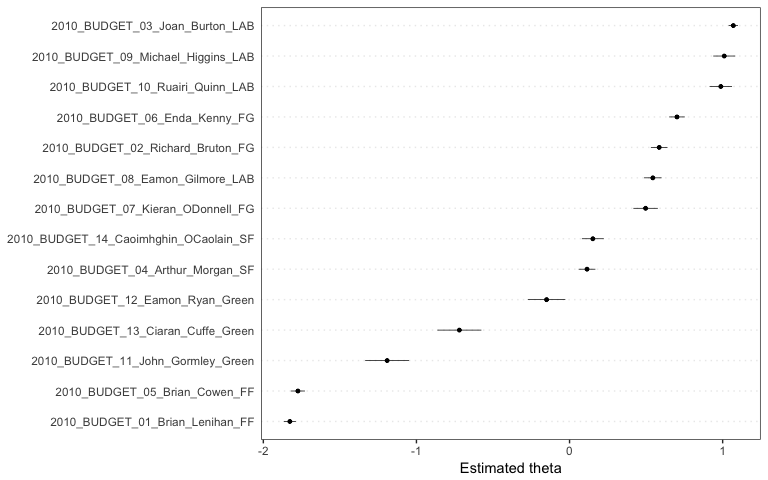
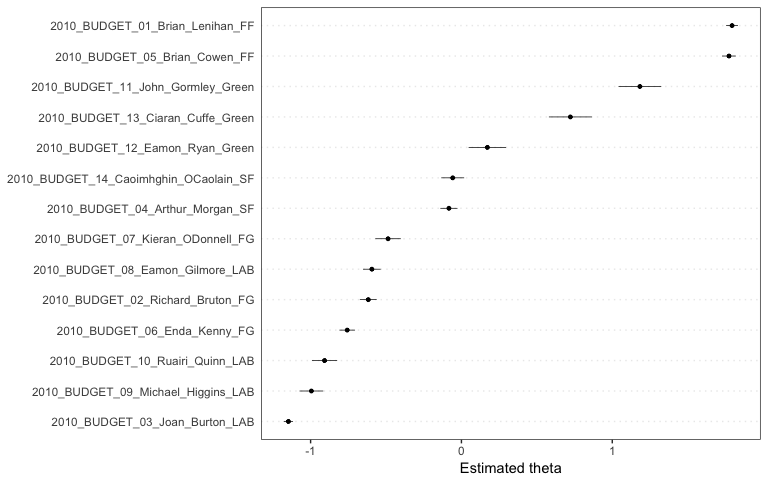
Update examples

diff --git a/6_advanced/advanced.md b/6_advanced/advanced.md
@@ -82,9 +82,12 @@ require(dplyr)
 ##     intersect, setdiff, setequal, union
 tweetSample <- mutate(tweetSample, day = yday(created_at))
 tweetSample <- mutate(tweetSample, dayDate = as.Date(day-1, origin = "2014-01-01"))
-juncker <- filter(tweetSample, grepl('juncker', text, ignore.case = TRUE)) %>% mutate(kand = 'Juncker')
-schulz <-  filter(tweetSample, grepl('schulz', text, ignore.case = TRUE))  %>% mutate(kand = 'Schulz')
-verhof <-  filter(tweetSample, grepl('verhofstadt', text, ignore.case = TRUE)) %>% mutate(kand = 'Verhofstadt')
+juncker <- filter(tweetSample, grepl('juncker', text, ignore.case = TRUE)) %>% 
+    mutate(kand = 'Juncker')
+schulz <-  filter(tweetSample, grepl('schulz', text, ignore.case = TRUE)) %>% 
+    mutate(kand = 'Schulz')
+verhof <-  filter(tweetSample, grepl('verhofstadt', text, ignore.case = TRUE)) %>% 
+    mutate(kand = 'Verhofstadt')
 spitzAll <- bind_rows(juncker, schulz, verhof)
 ```
 
@@ -96,7 +99,8 @@ require(ggplot2)
 require(scales)
 ## Loading required package: scales
 # mentioning kandidates names over time
-plotDf <- count(spitzAll, kand, day=day)  %>% mutate(day = as.Date(day-1, origin = "2014-01-01"))
+plotDf <- count(spitzAll, kand, day=day) %>% 
+    mutate(day = as.Date(day-1, origin = "2014-01-01"))
 
 ggplot(data=plotDf, aes(x=day, y=n, colour=kand)) + 
     geom_line(size=1) +
@@ -370,9 +374,9 @@ plot(coef(preds)$coef_document ~ docvars(amicusDfm, "testclass"),
 Correspondence analysis:
 
 ``` r
-ieDfm <- dfm(data_corpus_irishbudget2010)
-ieCA <- textmodel(ieDfm, model = "ca")
-textplot_scale1d(ieCA)
+dfm(data_corpus_irishbudget2010) %>%
+    textmodel_ca() %>% 
+    textplot_scale1d()
 ## Warning: Removed 14 rows containing missing values (geom_pointrange).
 ```
 
@@ -381,42 +385,48 @@ textplot_scale1d(ieCA)
 Poisson scaling:
 
 ``` r
-ieWF <- textmodel(ieDfm, model = "wordfish")
+ieWF <- dfm(data_corpus_irishbudget2010, removePunct = TRUE) %>%
+    textmodel_wordfish(dir = c(6,5))
+## Warning: argument "removePunct" is deprecated: use "remove_punct" instead.
+## Warning in dfm.tokenizedTexts(temp, tolower = tolower, stem = stem, select
+## = select, : Argument removePunct not used.
+## Warning in dfm.dfm(result, tolower = FALSE, stem = stem, select = select, :
+## Argument removePunct not used.
 summary(ieWF)
 ## Call:
-##  textmodel_wordfish(x = x)
+##  textmodel_wordfish(x = ., dir = c(6, 5))
 ## 
 ## Estimated document positions:
-##                                            theta         SE       lower
-## 2010_BUDGET_01_Brian_Lenihan_FF       -1.8268036 0.02020113 -1.86639781
-## 2010_BUDGET_02_Richard_Bruton_FG       0.5855453 0.02767752  0.53129738
-## 2010_BUDGET_03_Joan_Burton_LAB         1.0696093 0.01556654  1.03909892
-## 2010_BUDGET_04_Arthur_Morgan_SF        0.1141058 0.02791284  0.05939668
-## 2010_BUDGET_05_Brian_Cowen_FF         -1.7742535 0.02354795 -1.82040749
-## 2010_BUDGET_06_Enda_Kenny_FG           0.7016675 0.02613599  0.65044099
-## 2010_BUDGET_07_Kieran_ODonnell_FG      0.4967371 0.04081043  0.41674864
-## 2010_BUDGET_08_Eamon_Gilmore_LAB       0.5438955 0.02931964  0.48642903
-## 2010_BUDGET_09_Michael_Higgins_LAB     1.0104557 0.03669246  0.93853843
-## 2010_BUDGET_10_Ruairi_Quinn_LAB        0.9879423 0.03741468  0.91460950
-## 2010_BUDGET_11_John_Gormley_Green     -1.1913710 0.07324285 -1.33492703
-## 2010_BUDGET_12_Eamon_Ryan_Green       -0.1500193 0.06254512 -0.27260773
-## 2010_BUDGET_13_Ciaran_Cuffe_Green     -0.7196468 0.07340590 -0.86352238
-## 2010_BUDGET_14_Caoimhghin_OCaolain_SF  0.1521357 0.03644625  0.08070101
+##                                             theta         SE      lower
+## 2010_BUDGET_01_Brian_Lenihan_FF        1.79413555 0.02008369  1.7547715
+## 2010_BUDGET_02_Richard_Bruton_FG      -0.61757407 0.02844971 -0.6733355
+## 2010_BUDGET_03_Joan_Burton_LAB        -1.14716506 0.01562604 -1.1777921
+## 2010_BUDGET_04_Arthur_Morgan_SF       -0.08300762 0.02901006 -0.1398673
+## 2010_BUDGET_05_Brian_Cowen_FF          1.77383169 0.02331842  1.7281276
+## 2010_BUDGET_06_Enda_Kenny_FG          -0.75721756 0.02643476 -0.8090297
+## 2010_BUDGET_07_Kieran_ODonnell_FG     -0.48642676 0.04310127 -0.5709053
+## 2010_BUDGET_08_Eamon_Gilmore_LAB      -0.59380374 0.02992727 -0.6524612
+## 2010_BUDGET_09_Michael_Higgins_LAB    -0.99475989 0.04016928 -1.0734917
+## 2010_BUDGET_10_Ruairi_Quinn_LAB       -0.90753100 0.04265150 -0.9911279
+## 2010_BUDGET_11_John_Gormley_Green      1.18319536 0.07231201  1.0414638
+## 2010_BUDGET_12_Eamon_Ryan_Green        0.17186838 0.06334423  0.0477137
+## 2010_BUDGET_13_Ciaran_Cuffe_Green      0.72231131 0.07267234  0.5798735
+## 2010_BUDGET_14_Caoimhghin_OCaolain_SF -0.05785659 0.03875089 -0.1338083
 ##                                             upper
-## 2010_BUDGET_01_Brian_Lenihan_FF       -1.78720939
-## 2010_BUDGET_02_Richard_Bruton_FG       0.63979326
-## 2010_BUDGET_03_Joan_Burton_LAB         1.10011977
-## 2010_BUDGET_04_Arthur_Morgan_SF        0.16881502
-## 2010_BUDGET_05_Brian_Cowen_FF         -1.72809951
-## 2010_BUDGET_06_Enda_Kenny_FG           0.75289405
-## 2010_BUDGET_07_Kieran_ODonnell_FG      0.57672554
-## 2010_BUDGET_08_Eamon_Gilmore_LAB       0.60136202
-## 2010_BUDGET_09_Michael_Higgins_LAB     1.08237288
-## 2010_BUDGET_10_Ruairi_Quinn_LAB        1.06127505
-## 2010_BUDGET_11_John_Gormley_Green     -1.04781505
-## 2010_BUDGET_12_Eamon_Ryan_Green       -0.02743087
-## 2010_BUDGET_13_Ciaran_Cuffe_Green     -0.57577127
-## 2010_BUDGET_14_Caoimhghin_OCaolain_SF  0.22357033
+## 2010_BUDGET_01_Brian_Lenihan_FF        1.83349959
+## 2010_BUDGET_02_Richard_Bruton_FG      -0.56181264
+## 2010_BUDGET_03_Joan_Burton_LAB        -1.11653803
+## 2010_BUDGET_04_Arthur_Morgan_SF       -0.02614791
+## 2010_BUDGET_05_Brian_Cowen_FF          1.81953580
+## 2010_BUDGET_06_Enda_Kenny_FG          -0.70540543
+## 2010_BUDGET_07_Kieran_ODonnell_FG     -0.40194827
+## 2010_BUDGET_08_Eamon_Gilmore_LAB      -0.53514630
+## 2010_BUDGET_09_Michael_Higgins_LAB    -0.91602809
+## 2010_BUDGET_10_Ruairi_Quinn_LAB       -0.82393406
+## 2010_BUDGET_11_John_Gormley_Green      1.32492689
+## 2010_BUDGET_12_Eamon_Ryan_Green        0.29602307
+## 2010_BUDGET_13_Ciaran_Cuffe_Green      0.86474911
+## 2010_BUDGET_14_Caoimhghin_OCaolain_SF  0.01809516
 textplot_scale1d(ieWF)
 ```
 
@@ -428,58 +438,53 @@ Topic models:
 require(topicmodels)
 ## Loading required package: topicmodels
 mycorpus <- corpus_subset(data_corpus_inaugural, Year > 1950)
-quantdfm <- dfm(mycorpus, verbose = FALSE, remove.punct = TRUE,
+quantdfm <- dfm(mycorpus, verbose = FALSE, remove_punct = TRUE,
                 remove = c(stopwords('english'), 'will', 'us', 'nation', 'can', 'peopl*', 'americ*'))
-## Warning in tokens.character(texts(x), ...): Argument remove.punct not used.
-## Warning in dfm.tokenizedTexts(temp, tolower = tolower, stem = stem, select
-## = select, : Argument remove.punct not used.
-## Warning in dfm.dfm(result, tolower = FALSE, stem = stem, select = select, :
-## Argument remove.punct not used.
-ldadfm <- convert(quantdfm, to="topicmodels")
+ldadfm <- convert(quantdfm, to = "topicmodels")
 lda <- LDA(ldadfm, control = list(alpha = 0.1), k = 20)
 terms(lda, 10)
-##       Topic 1      Topic 2   Topic 3    Topic 4 Topic 5      Topic 6 
-##  [1,] ","          ","       "."        "."     ","          ","     
-##  [2,] "."          "."       ","        ","     "."          "."     
-##  [3,] "new"        "man"     "-"        ";"     "-"          "-"     
-##  [4,] "-"          "change"  "must"     "must"  "\""         "new"   
-##  [5,] "century"    "world"   "time"     "-"     "government" ";"     
-##  [6,] ";"          "must"    ";"        "need"  "must"       "common"
-##  [7,] "time"       "\""      "every"    "great" "believe"    "world" 
-##  [8,] "land"       "-"       "together" "time"  "world"      "every" 
-##  [9,] "every"      "liberty" "make"     "hope"  "one"        "less"  
-## [10,] "government" "union"   "journey"  "new"   "time"       "seek"  
-##       Topic 7   Topic 8 Topic 9   Topic 10   Topic 11   Topic 12
-##  [1,] ","       ","     ","       ","        ","        ","     
-##  [2,] "."       "."     "."       "."        "."        "."     
-##  [3,] "-"       "-"     "freedom" "-"        "country"  ":"     
-##  [4,] "may"     ";"     "liberty" "new"      "-"        "-"     
-##  [5,] "world"   "world" "every"   "must"     ":"        ";"     
-##  [6,] "nations" "peace" "one"     ";"        "citizens" "new"   
-##  [7,] "peace"   "let"   ":"       "strength" ";"        "world" 
-##  [8,] "freedom" "know"  "country" "together" "every"    "great" 
-##  [9,] "seek"    "\""    "world"   "spirit"   "new"      "free"  
-## [10,] "must"    "make"  "\""      "world"    "never"    "must"  
-##       Topic 13     Topic 14 Topic 15 Topic 16  Topic 17         Topic 18
-##  [1,] ","          "."      ","      ","       ","              ","     
-##  [2,] "."          "-"      "."      "."       "."              "."     
-##  [3,] "-"          ","      "world"  "-"       "-"              "-"     
-##  [4,] "government" "\""     "must"   "free"    "let"            ";"     
-##  [5,] "world"      "old"    "today"  "world"   "peace"          "must"  
-##  [6,] "one"        "land"   "new"    "faith"   "world"          "let"   
-##  [7,] ";"          "union"  "change" "peace"   "new"            "end"   
-##  [8,] "freedom"    "one"    "let"    "shall"   "responsibility" "every" 
-##  [9,] "must"       "great"  "time"   "upon"    "government"     "know"  
-## [10,] "time"       "new"    ";"      "freedom" "great"          "less"  
-##       Topic 19  Topic 20
-##  [1,] ","       ","     
-##  [2,] "."       "."     
-##  [3,] "-"       "-"     
-##  [4,] ";"       "let"   
-##  [5,] "liberty" "sides" 
-##  [6,] "freedom" "world" 
-##  [7,] "must"    "pledge"
-##  [8,] "hope"    "new"   
-##  [9,] "know"    "ask"   
-## [10,] "future"  "shall"
+##       Topic 1      Topic 2      Topic 3   Topic 4    Topic 5   
+##  [1,] "world"      "new"        "may"     "free"     "new"     
+##  [2,] "one"        "must"       "world"   "world"    "one"     
+##  [3,] "government" "strength"   "nations" "faith"    "come"    
+##  [4,] "freedom"    "together"   "peace"   "peace"    "old"     
+##  [5,] "must"       "spirit"     "freedom" "shall"    "every"   
+##  [6,] "time"       "world"      "seek"    "upon"     "let"     
+##  [7,] "now"        "human"      "must"    "freedom"  "promise" 
+##  [8,] "history"    "dream"      "upon"    "must"     "human"   
+##  [9,] "new"        "government" "help"    "strength" "children"
+## [10,] "human"      "freedom"    "justice" "country"  "world"   
+##       Topic 6     Topic 7          Topic 8      Topic 9      Topic 10    
+##  [1,] "world"     "let"            "story"      "new"        "new"       
+##  [2,] "friends"   "peace"          "must"       "century"    "let"       
+##  [3,] "time"      "world"          "never"      "land"       "today"     
+##  [4,] "today"     "new"            "country"    "government" "many"      
+##  [5,] "free"      "responsibility" "many"       "time"       "whether"   
+##  [6,] "need"      "government"     "government" "must"       "earth"     
+##  [7,] "make"      "great"          "beyond"     "every"      "last"      
+##  [8,] "new"       "home"           "new"        "world"      "bless"     
+##  [9,] "hope"      "abroad"         "children"   "promise"    "government"
+## [10,] "president" "make"           "place"      "fellow"     "gift"      
+##       Topic 11     Topic 12   Topic 13   Topic 14  Topic 15   Topic 16   
+##  [1,] "government" "freedom"  "must"     "country" "world"    "citizens" 
+##  [2,] "must"       "liberty"  "change"   "one"     "peace"    "country"  
+##  [3,] "believe"    "every"    "time"     "every"   "let"      "freedom"  
+##  [4,] "world"      "one"      "every"    "world"   "know"     "promise"  
+##  [5,] "one"        "country"  "one"      "great"   "make"     "common"   
+##  [6,] "time"       "world"    "new"      "new"     "earth"    "purpose"  
+##  [7,] "freedom"    "history"  "liberty"  "never"   "now"      "ideals"   
+##  [8,] "work"       "free"     "world"    "now"     "new"      "character"
+##  [9,] "man"        "time"     "now"      "back"    "together" "every"    
+## [10,] "let"        "citizens" "together" "make"    "voices"   "story"    
+##       Topic 17   Topic 18 Topic 19  Topic 20    
+##  [1,] "let"      "world"  "new"     "new"       
+##  [2,] "world"    "must"   "good"    "must"      
+##  [3,] "sides"    "today"  "must"    "every"     
+##  [4,] "new"      "new"    "great"   "less"      
+##  [5,] "pledge"   "change" "hand"    "work"      
+##  [6,] "ask"      "let"    "day"     "now"       
+##  [7,] "citizens" "time"   "things"  "common"    
+##  [8,] "power"    "work"   "mr"      "time"      
+##  [9,] "shall"    "fellow" "freedom" "world"     
+## [10,] "free"     "idea"   "work"    "generation"
 ```

diff --git a/4_preparing_texts/preparingtexts.md b/4_preparing_texts/preparingtexts.md
@@ -38,7 +38,7 @@ tokens(txt, verbose = TRUE)
 ## ...replacing Twitter characters (#, @)
 ## ...serializing tokens
 ## 31 unique types
-## ...total elapsed:  0.002 seconds.
+## ...total elapsed:  0.00100000000000011 seconds.
 ## Finished tokenizing and cleaning 2 texts.
 ## tokens from 2 documents.
 ## text1 :
@@ -185,7 +185,7 @@ char_tolower(test1, keep_acronyms = TRUE)
 ##                                               text2 
 ##                    "NASA sent a rocket into space."
 
-test2 <- tokens(test1, remove_punct=TRUE)
+test2 <- tokens(test1, remove_punct = TRUE)
 tokens_tolower(test2)
 ## tokens from 2 documents.
 ## text1 :
@@ -267,7 +267,7 @@ myDfm <- dfm(c("My Christmas was ruined by your opposition tax plan.",
 ##    ... found 2 documents, 20 features
 ##    ... created a 2 x 20 sparse dfm
 ##    ... complete. 
-## Elapsed time: 0.006 seconds.
+## Elapsed time: 0.005 seconds.
 dfm_select(myDfm, features = c("s$", ".y"), selection = "keep", valuetype = "regex")
 ## Document-feature matrix of: 2 documents, 6 features (50% sparse).
 ## 2 x 6 sparse Matrix of class "dfmSparse"
@@ -427,7 +427,7 @@ budgdfm <- dfm(data_corpus_irishbudget2010, dictionary = lgdict, verbose = TRUE)
 ## applying a dictionary consisting of 20 keys
 ##    ... created a 14 x 20 sparse dfm
 ##    ... complete. 
-## Elapsed time: 0.218 seconds.
+## Elapsed time: 0.231 seconds.
 head(budgdfm)
 ## Document-feature matrix of: 14 documents, 20 features (0% sparse).
 ## 14 x 20 sparse Matrix of class "dfmSparse"
@@ -692,7 +692,7 @@ dictdfm <- dfm(data_corpus_inaugural, dictionary = liwcdict, verbose = TRUE)
 ##    ... found 58 documents, 72 features
 ##    ... created a 58 x 72 sparse dfm
 ##    ... complete. 
-## Elapsed time: 0.001 seconds.
+## Elapsed time: 0 seconds.
 dictdfm[50:58, c("money", "power")]
 ## Document-feature matrix of: 9 documents, 2 features (0% sparse).
 ## 9 x 2 sparse Matrix of class "dfmSparse"

diff --git a/5_descriptive/descriptive.md b/5_descriptive/descriptive.md
@@ -45,7 +45,7 @@ summary(corpus(data_char_ukimmig2010, notes = "Created as a demo."))
 ##          UKIP   346    739        27
 ## 
 ## Source:  /Users/kbenoit/GitHub/ITAUR/5_descriptive/* on x86_64 by kbenoit
-## Created: Thu Apr 27 08:54:41 2017
+## Created: Fri Apr 28 07:34:08 2017
 ## Notes:
 ```
 
@@ -146,7 +146,8 @@ textstat_dist(presDfm, c("2009-Obama", "2013-Obama"), method = "eJaccard")
 ## 2017-Trump    0.3589839  0.3741432
 
 # compute some term similarities
-lapply(as.list(textstat_simil(presDfm, c("fair", "health", "terror"), margin = "features", method = "cosine")), head, n = 10)
+lapply(as.list(textstat_simil(presDfm, c("fair", "health", "terror"), margin = "features", method = "cosine")), 
+       head, n = 10)
 ## $fair
 ##      size  economic       tax beginning  national   economy  republic 
 ## 0.9045340 0.8922269 0.8869686 0.8864053 0.8775269 0.8775269 0.8703883 
